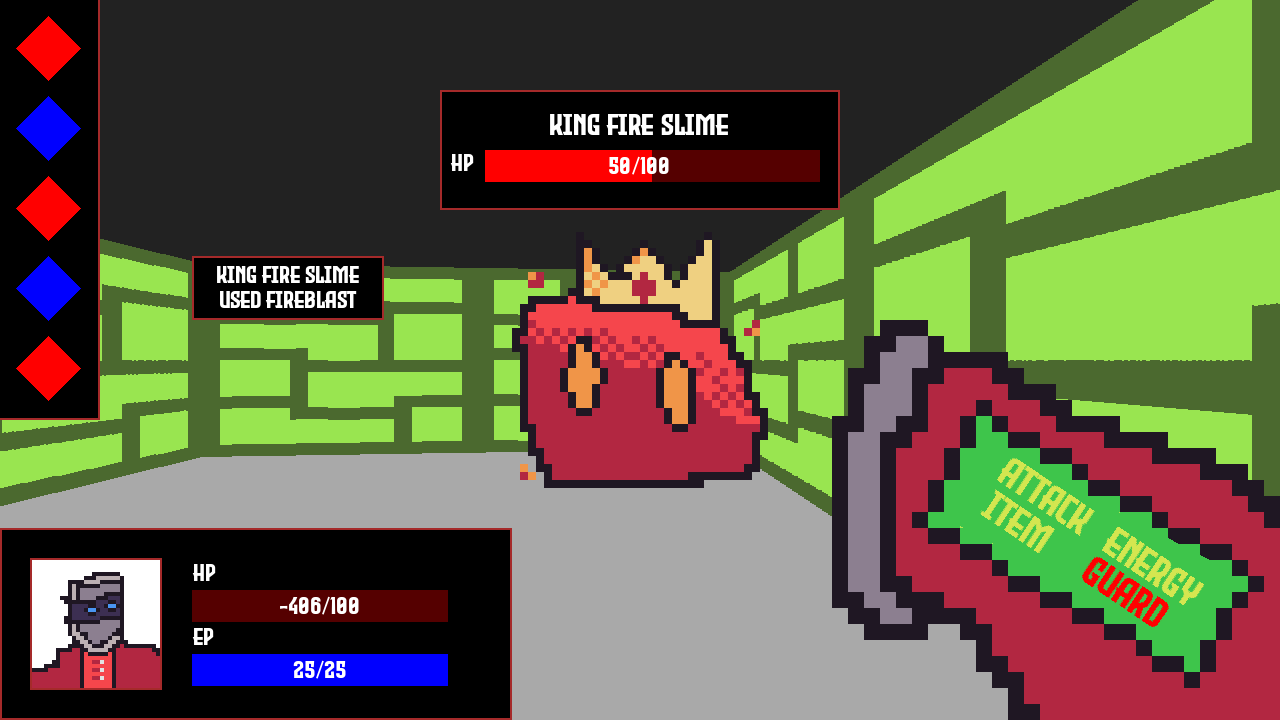
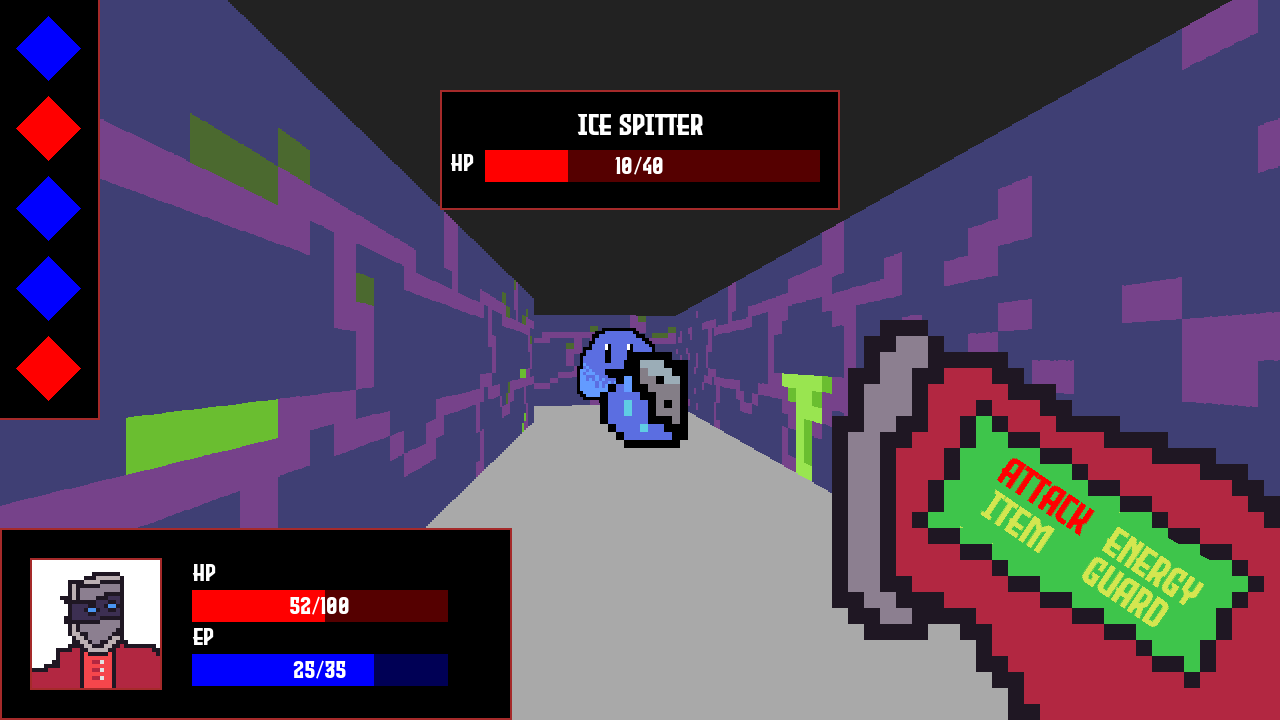
Boss Rooms
- New Column texture
- New floor counter variable
- Boss room
- Boss room loads every 2 floors

diff --git a/main.py b/main.py
@@ -20,15 +20,31 @@ items = load_items()
 
 
 player_pos = [2.5,10.5]#The coordinate of the player, (xy)
-
+floor = 0
 
 #Use function from maze.py to generate a new maze using a backtracking algorithm
 #Then randomly populate walls and maze
 def new_maze(wall_tiles = [wall_image("Brick.png"), wall_image("Blue_Brick.png")], number_of_enemies=0, enemies=["BasicSlime"], number_of_campfires=0,number_of_chargers=0,
              number_of_moveUP=0,number_of_items=0,number_of_chests=0):
-    global map, player_pos
+    global map, player_pos, floor
 
-    map,player_pos = maze.maze_generate(11) # Create maze and set the position of the player
+    floor += 1
+    if floor % 2 == 0:   # Load a boss room every 2nd floor - might change this to every third floor later
+        column = wall_image("Column.png")
+        map=[[tile("Wall",wall_image=column),tile("Wall",wall_image=column),tile("Wall",wall_image=column),tile("Wall",wall_image=column),  tile("Wall",wall_image=column),tile("Wall",wall_image=column),tile("Wall",wall_image=column),tile("Wall",wall_image=column)],
+             [tile("Wall",wall_image=column),tile("Path"),                  tile("Path"),                  tile("Sprite",spriteInfo="Door"),tile("Path"),                  tile("Path"),                  tile("Wall",wall_image=column)],
+             [tile("Wall",wall_image=column),tile("Path"),                  tile("Path"),                  tile("Enemy",spriteInfo="KingFireSlime"),tile("Path"),          tile("Path"),                  tile("Wall",wall_image=column)],
+             [tile("Wall",wall_image=column),tile("Wall",wall_image=column),tile("Wall",wall_image=column),tile("Path"),                    tile("Wall",wall_image=column),tile("Wall",wall_image=column),tile("Wall",wall_image=column)],
+             [tile("Wall",wall_image=column),tile("Sprite", spriteInfo="Campfire"),                        tile("Sprite", spriteInfo="Charger"),tile("Path"),              tile("Path"),                  tile("Path"),tile("Wall",wall_image=column)],
+             [tile("Wall",wall_image=column),tile("Path"),                                                 tile("Path"),                    tile("Path"),                  tile("Path"),tile("Path"),tile("Wall",wall_image=column)],
+             [tile("Wall",wall_image=column),tile("Path"),                                                 tile("Path"),                    tile("Path"),                  tile("Path"),tile("Path"),tile("Wall",wall_image=column)],
+             [tile("Wall",wall_image=column),tile("Wall",wall_image=column),                               tile("Wall",wall_image=column),  tile("Wall",wall_image=column),tile("Wall",wall_image=column),tile("Wall",wall_image=column),tile("Wall",wall_image=column)]]
+        # number_of_campfires,number_of_chargers,number_of_chests,number_of_enemies,number_of_items,number_of_moveUP = 0,0,0,0,0,0
+        player_pos=[3.5,6.5]
+        return
+    else:
+        map,player_pos = maze.maze_generate(11) # Create maze and set the position of the player
+    
 
     #add in random thingies here
     #add some things to the R points
